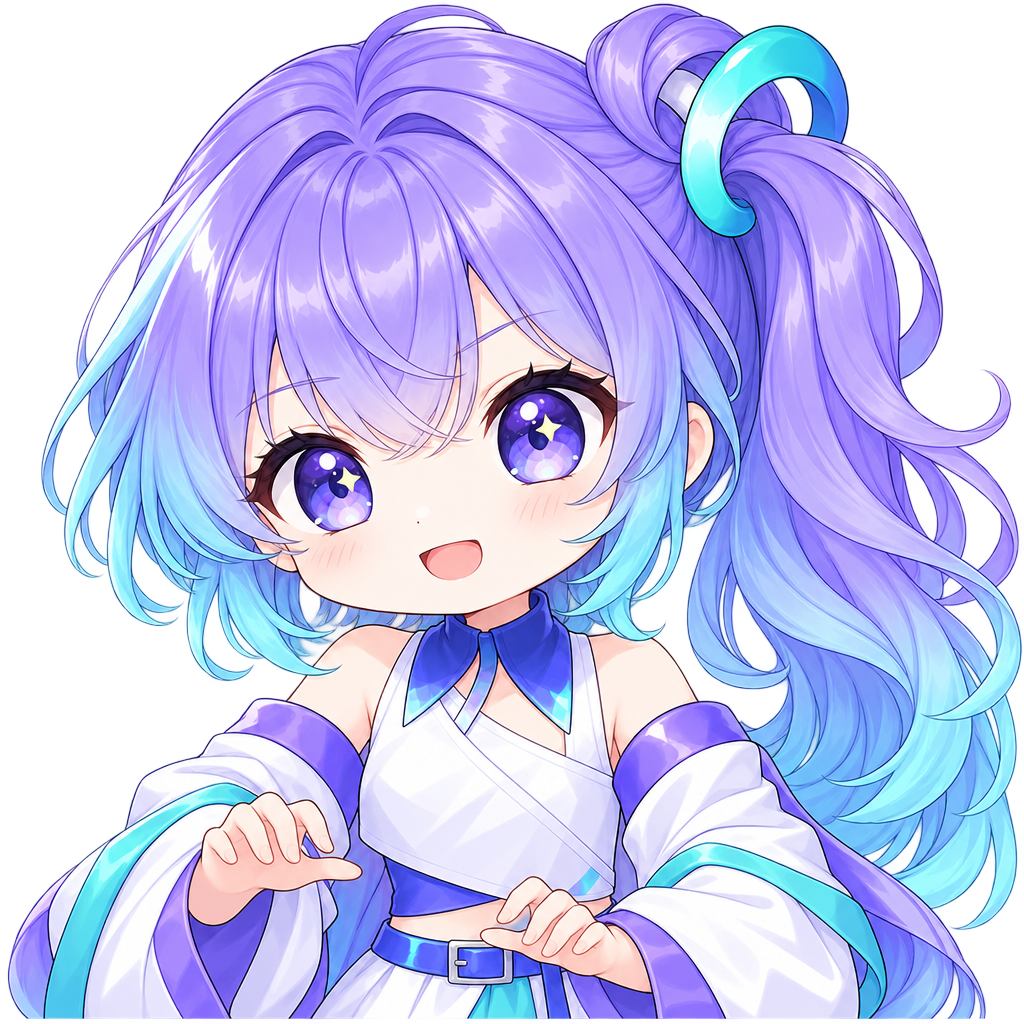
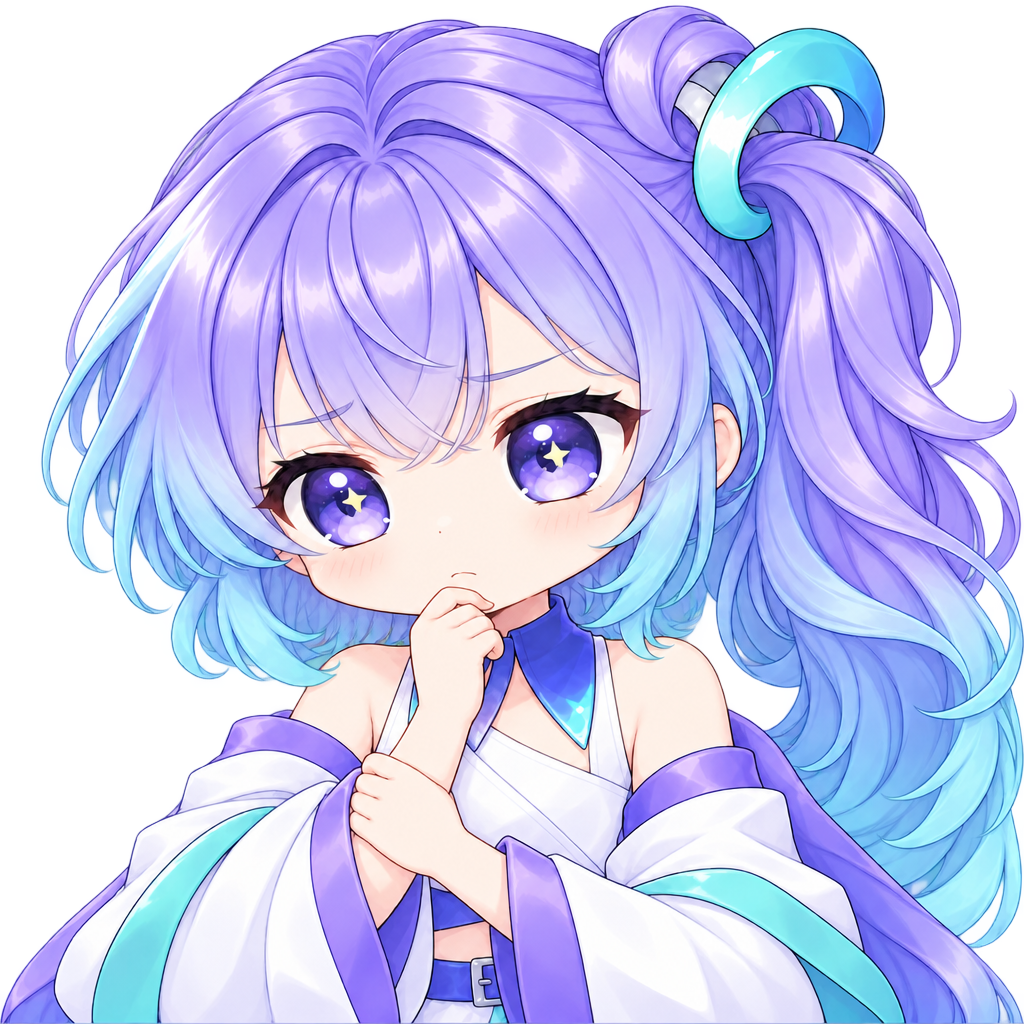
Redraw the seedance working pose and publish it as 1.0.1

diff --git a/skins/PUBLISHING.md b/skins/PUBLISHING.md
@@ -31,16 +31,48 @@ sinking doze, both as ordinary frames.
 `catalog.json` is generated, not authored:
 
 ```powershell
-.\tools\build-skin-catalog.ps1 -Repository OWNER/REPO -ReleaseTag TAG
+.\tools\build-skin-catalog.ps1 -Repository OWNER/REPO
 ```
 
 It reads each package's own manifest for the id, name and version, and computes the
 SHA-256 from the file, so an entry cannot disagree with the artifact it points at.
-The repository name and release tag are parameters because they are the only two
-things that cannot be derived from the packages.
+The repository is a parameter because it is the one thing that cannot be derived
+from the packages.
+
+The release tag is derived per package as `skins-<version>`, so the packages that
+did not change keep pointing at the release that already holds them. Pass
+`-ReleaseTag` to force one tag for every entry, which is only right when they were
+all rebuilt together.
 
 Regenerate it after rebuilding any package. A stale hash is worse than a missing
 entry: the install downloads the whole archive and then fails.
+
+## Updating one appearance
+
+Redrawing a single state does not need a new release of the program, because the
+artwork is not in the program any more. The whole cycle is:
+
+```powershell
+# 1. Replace the artwork in versions\csharp-wpf\assets\pets\<style>\<state>.png
+
+# 2. Bump the version. Installed copies are offered an update by comparing this
+#    with the version in their manifest, so leaving it alone means nobody is told.
+.\tools\package-shipped-pets.ps1 -Version 1.0.1 -Style seedance
+
+# 3. Delete the package this one replaces, then regenerate the catalog. The
+#    generator refuses two packages with the same id rather than publishing a
+#    catalog that cannot be acted on.
+Remove-Item .\dist\pets\pet.seedance-1.0.0.zip
+.\tools\build-skin-catalog.ps1 -Repository GoldenMoon-cell/BalancePet-Pets
+
+# 4. Publish: a release tagged skins-1.0.1 carrying the new ZIP, and the updated
+#    catalog.json on the default branch.
+```
+
+`-Style` takes one or more ids. Without it every appearance that is not kept is
+rebuilt, which is what a first publication wants and what a redraw of one does not:
+a new version number on unchanged artwork pushes an update to everyone who already
+installed it.
 
 ## Publishing
 
